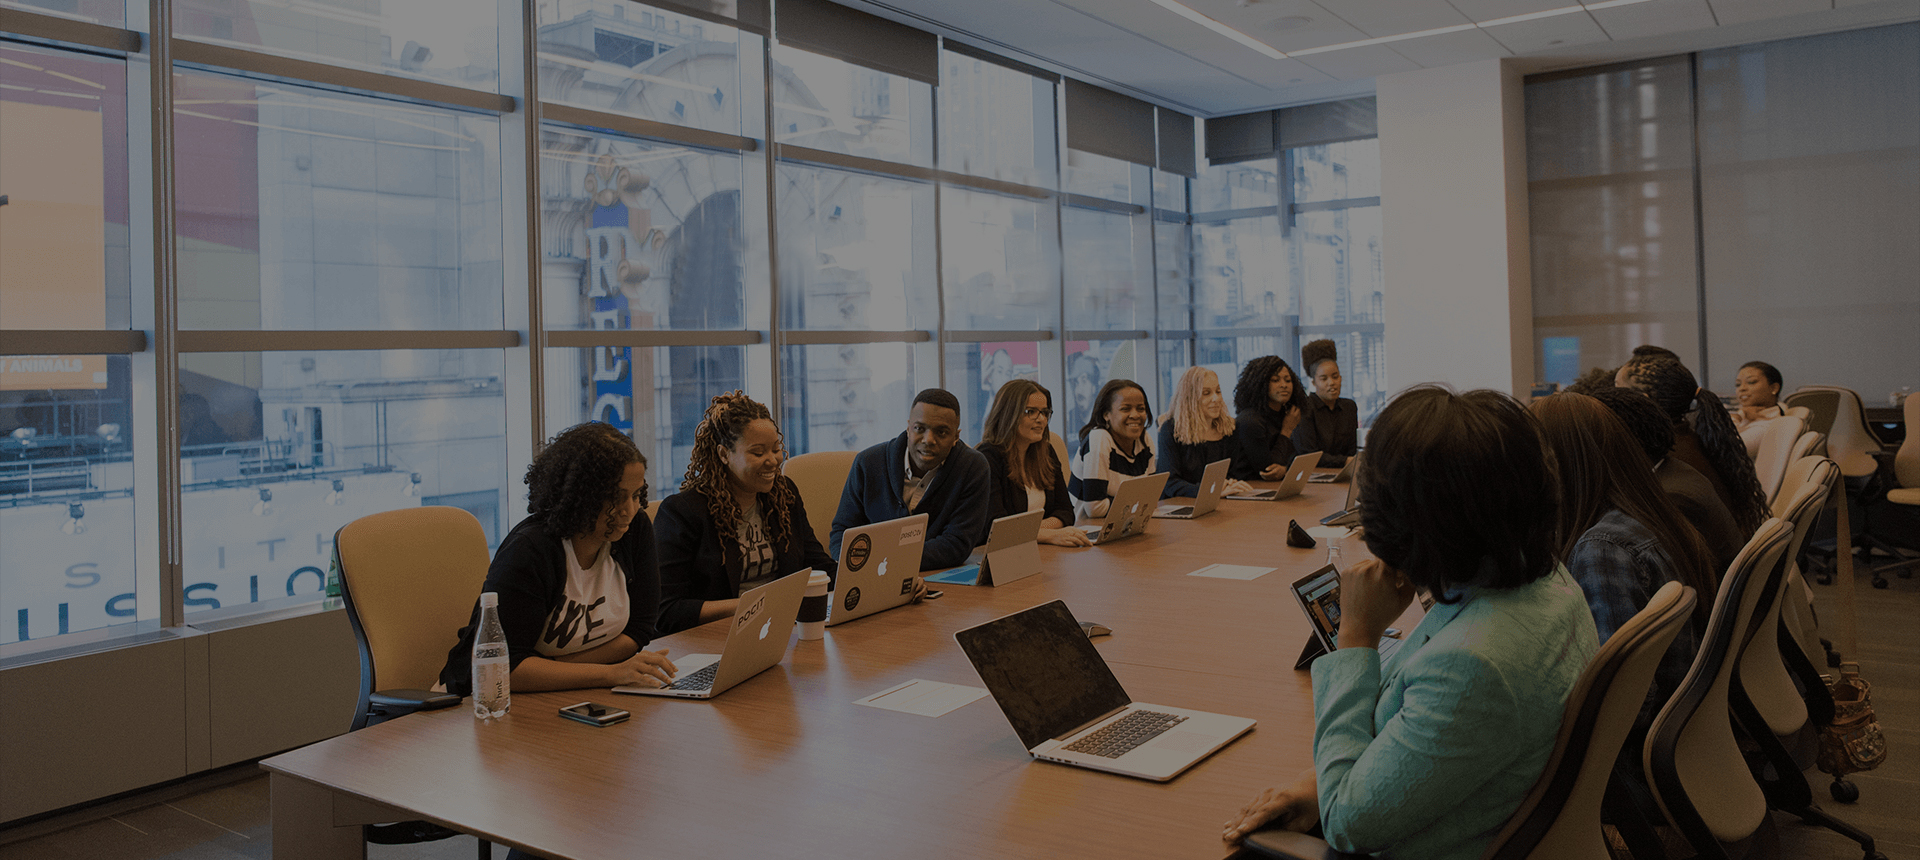
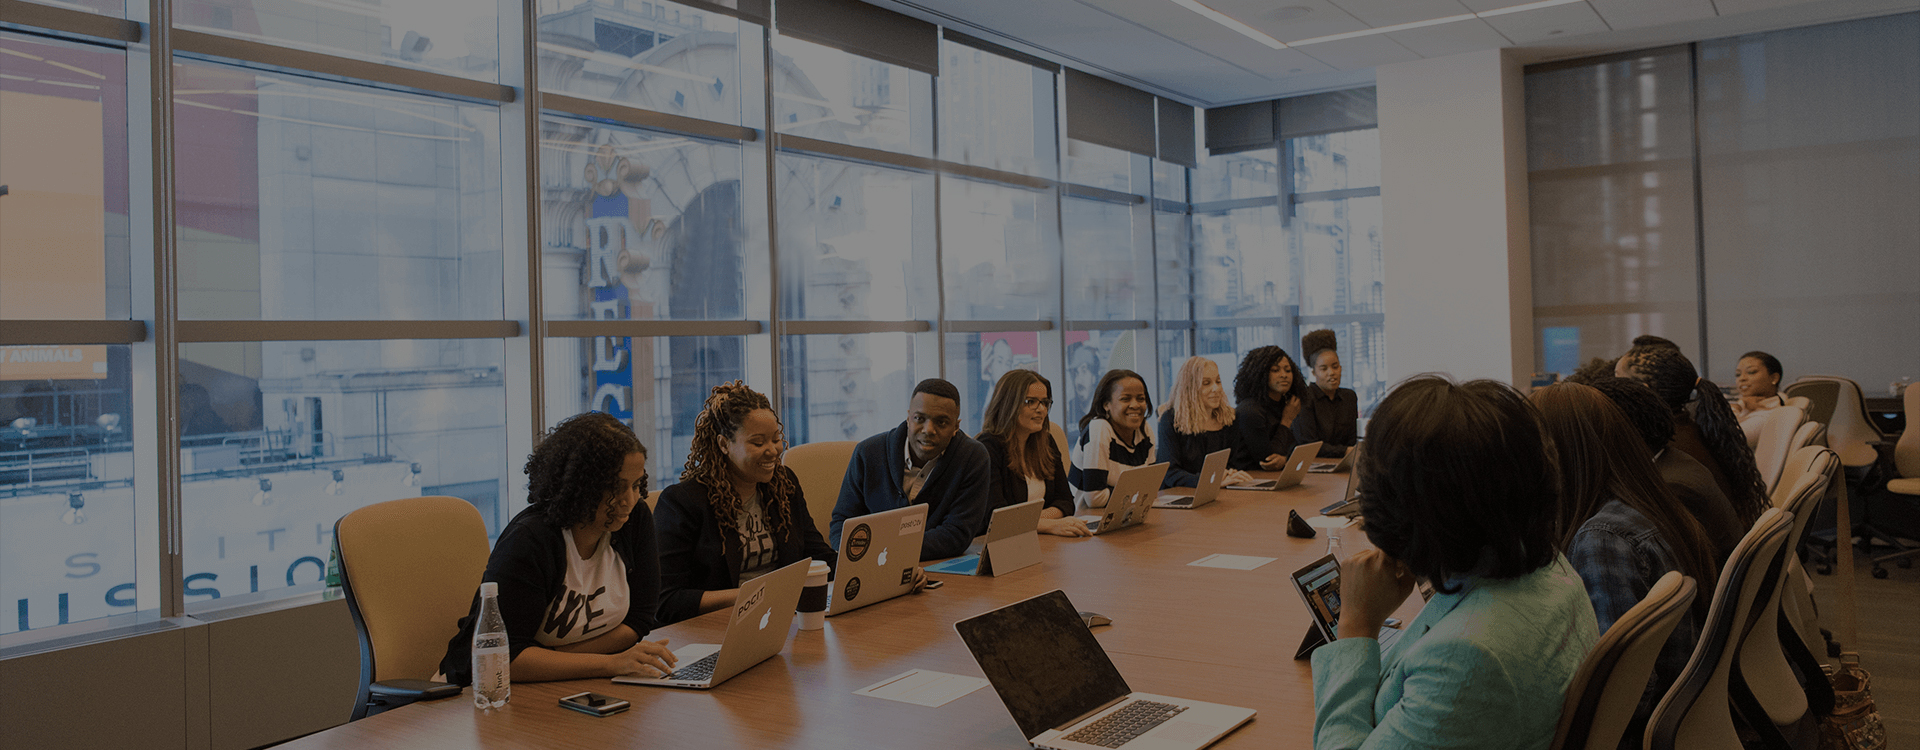
导航调整

diff --git a/html/joinUs.html b/html/joinUs.html
@@ -37,10 +37,12 @@
         <!--header end-->
 
         <div class="index-banner">
-            <div class="index-banner-des">
-                <div class="jumbotron middle ">
-                    <h1>JOIN US.加入我们</h1>
-                    <p>做电商时代的造梦者</p>
+            <div class="container">
+                <div class="index-banner-des">
+                    <div class="jumbotron middle ">
+                        <h1>JOIN US.加入我们</h1>
+                        <p>做电商时代的造梦者</p>
+                    </div>
                 </div>
             </div>
             <img src="./imgs/jonin-banner.jpg" alt="一站式电站解决方案服务商专注、专业、高效">
@@ -105,21 +107,23 @@
 
         <!-- 员工福利 -->
         <div class="index-banner">
-            <div class="index-banner-des">
-                <div class="jumbotron middle welfare">
-                    <h2>员工福利<br> EMPLOYEE WELFARE</h2>
-                    <div class="welfare-detail">
-                        <p>富有竞争力的薪酬：高出同行的薪资待遇</p>
-                        <p>畅通的晋升通道：每年两次晋升调薪的机会</p>
-                        <p>便捷的交通：北京海淀区西三环花园桥地铁口50米</p>
-                        <p>人性化的员工假期：带薪年假、带薪病假、婚假、产假等</p>
-                        <p>丰富的员工福利：月度生日会、部门个性化团建活动、年度体检、年度旅游、节日礼物等</p>
-                        <p>多彩的员工活动：年会、趣味运动会、专项运动</p>
-                        <p>其他福利：每天零食水果下午茶供应、各种口味咖啡，茶等饮品提供</p>
-                    </div>
-                    <div class="contact">
-                        <p>联系电话：010-82484562</p>
-                        <p>投递邮箱：mengqi@v-wom.cn</p>
+            <div class="container">
+                <div class="index-banner-des">
+                    <div class="jumbotron middle welfare">
+                        <h2>员工福利<br> EMPLOYEE WELFARE</h2>
+                        <div class="welfare-detail">
+                            <p>富有竞争力的薪酬：高出同行的薪资待遇</p>
+                            <p>畅通的晋升通道：每年两次晋升调薪的机会</p>
+                            <p>便捷的交通：北京海淀区西三环花园桥地铁口50米</p>
+                            <p>人性化的员工假期：带薪年假、带薪病假、婚假、产假等</p>
+                            <p>丰富的员工福利：月度生日会、部门个性化团建活动、年度体检、年度旅游、节日礼物等</p>
+                            <p>多彩的员工活动：年会、趣味运动会、专项运动</p>
+                            <p>其他福利：每天零食水果下午茶供应、各种口味咖啡，茶等饮品提供</p>
+                        </div>
+                        <div class="contact">
+                            <p>联系电话：010-82484562</p>
+                            <p>投递邮箱：mengqi@v-wom.cn</p>
+                        </div>
                     </div>
                 </div>
             </div>

diff --git a/html/css/all.css b/html/css/all.css
@@ -1,5 +1,6 @@
 .container-main {
   width: 100%;
+  overflow: hidden;
   background: #fff; }
 
 .container {
@@ -17,6 +18,7 @@
 
 .header-content {
   width: 1100px;
+  max-width: 100%;
   height: 100%;
   margin: 0 auto; }
 
@@ -30,7 +32,8 @@
 
 .header-right {
   overflow: hidden;
-  float: right; }
+  float: right;
+  width: 505px; }
 
 .header-right li {
   float: left;
@@ -39,8 +42,7 @@
   margin: 25px 5px 0 5px;
   cursor: pointer;
   height: 30px;
-  line-height: 30px;
-  padding: 0 30px; }
+  line-height: 30px; }
 
 .header-right li:last-child {
   margin-right: 0; }
@@ -50,6 +52,10 @@
   border-radius: 20px;
   /* padding: 0 32px; */
   margin-top: 26px; }
+
+.header-right a {
+  padding: 0 30px;
+  display: inline-block; }
 
 .header-right a,
 .header-right a:hover,
@@ -75,17 +81,21 @@
     max-width: 100%; }
   .index-banner .index-banner-des {
     position: absolute;
+    max-width: 100%;
     height: 100%; }
   .index-banner .jumbotron {
     width: 1100px;
+    overflow: hidden;
+    max-width: 100%;
     position: relative;
+    padding: 0;
     top: 25%;
-    left: 50%;
-    margin: 0 0 0 -275px;
+    left: 0;
     color: #333333;
     text-align: left; }
     .index-banner .jumbotron h1 {
-      font-size: 70px; }
+      font-size: 70px;
+      margin-bottom: 20px; }
     .index-banner .jumbotron p {
       font-size: 36px;
       font-weight: normal; }
@@ -100,6 +110,7 @@
       font-size: 30px; }
 
 .index-corp-desc {
+  max-width: 100%;
   width: 1100px;
   margin: 0 auto;
   color: #333333;
@@ -120,3 +131,6 @@
     margin: 35px 10px 0 0; }
   .footer .container {
     height: 94px !important; }
+
+.serve-detail-content img {
+  max-width: 100%; }

diff --git a/html/scss/all.scss b/html/scss/all.scss
@@ -1,6 +1,7 @@
 @charset "utf-8";
 .container-main{
     width: 100%;
+    overflow: hidden;
     background: #fff;
 }
 .container{
@@ -18,6 +19,7 @@
 }
 .header-content{
     width: 1100px;
+    max-width: 100%;
     height: 100%;
     margin: 0 auto;
 }
@@ -32,6 +34,7 @@
 .header-right{
     overflow: hidden;
     float: right;
+    width: 505px;
 }
 .header-right li{
     float: left;
@@ -41,7 +44,7 @@
     cursor: pointer;
     height: 30px;
     line-height: 30px;
-    padding: 0 30px;
+    
 }
 .header-right li:last-child{
     margin-right: 0;
@@ -51,6 +54,10 @@
     border-radius: 20px;
     /* padding: 0 32px; */
     margin-top: 26px;
+}
+.header-right a{
+    padding: 0 30px;
+    display: inline-block;
 }
 .header-right a,
 .header-right a:hover,
@@ -78,18 +85,22 @@
     }
     .index-banner-des{
         position: absolute;
+        max-width: 100%;
         height: 100%;
     }
     .jumbotron{
         width: 1100px;
+        overflow: hidden;
+        max-width: 100%;
         position:relative;
+        padding: 0;
         top:25%;
-        left:50%;
-        margin: 0 0 0 -275px;
+        left:0;
         color: #333333;
         text-align: left;
         h1{
             font-size: 70px;
+            margin-bottom: 20px;
         }
         p{
             font-size: 36px;
@@ -119,6 +130,7 @@
 }
 
 .index-corp-desc{
+    max-width: 100%;
     width: 1100px;
     margin: 0 auto;
     color: #333333;
@@ -146,4 +158,11 @@
         height: 94px!important;
     }
     
+}
+
+// 核心服务
+.serve-detail-content{
+    img{
+        max-width: 100%;
+    }
 }

diff --git a/html/serve.html b/html/serve.html
@@ -37,11 +37,13 @@
         <!--header end-->
 
         <div class="index-banner">
-            <div class="index-banner-des">
-                <div class="jumbotron middle ">
-                    <h1>SERVICE.电商服务</h1>
-                    <p>玩转电商</p>
-                    <p>系统化解决电商难题</p>
+            <div class="container">
+                <div class="index-banner-des">
+                    <div class="jumbotron middle ">
+                        <h1>SERVICE.电商服务</h1>
+                        <p>玩转电商</p>
+                        <p>系统化解决电商难题</p>
+                    </div>
                 </div>
             </div>
             <img src="./imgs/server-banner.jpg" alt="一站式电站解决方案服务商专注、专业、高效">
@@ -60,10 +62,12 @@
         </div>
 
         <div class="index-banner">
-            <div class="index-banner-des">
-                <div class="jumbotron middle banner-footer">
-                    <p>知名品牌电子商务商业伙伴</p>
-                    <p>和技术研发解决方案公司</p>
+            <div class="container">
+                <div class="index-banner-des">
+                    <div class="jumbotron middle banner-footer">
+                        <p>知名品牌电子商务商业伙伴</p>
+                        <p>和技术研发解决方案公司</p>
+                    </div>
                 </div>
             </div>
             <img src="./imgs/server-footer.jpg" alt="一站式电站解决方案服务商专注、专业、高效">

diff --git a/html/aboutus.html b/html/aboutus.html
@@ -35,11 +35,12 @@
     <!--header end-->
 
     <div class="index-banner">
-        <div class="index-banner-des about-banner">
-            <div class="jumbotron middle">
-                <h1>RUNZE.润泽金诚</h1>
-                <p>一站式电站解决方案服务商</p>
-                <p>专注、专业、高效</p>
+        <div class="container">
+            <div class="index-banner-des about-banner">
+                <div class="jumbotron middle">
+                    <h1>ABOUT US.关于我们</h1>
+                    <p>全球知名品牌业务合作伙伴</p>
+                </div>
             </div>
         </div>
         <img src="./imgs/about-banner.jpg" alt="">
@@ -90,11 +91,13 @@
     <div class="clear-both"></div>
 
     <div class="index-banner">
-        <div class="index-banner-des about-footer">
-            <div class="jumbotron middle ">
-                <h1>RUNZE.润泽金诚</h1>
-                <p>一站式电站解决方案服务商</p>
-                <p>专注、专业、高效</p>
+        <div class="container">
+            <div class="index-banner-des about-footer">
+                <div class="jumbotron middle ">
+                    <h1>商务合作</h1>
+                    <p>联系电话：010-82484562</p>
+                    <p>公司地址：北京市海淀区西三环北路91号7号楼三层C23室</p>
+                </div>
             </div>
         </div>
         <img src="./imgs/about-footer.jpg" alt="一站式电站解决方案服务商专注、专业、高效">

diff --git a/html/index.html b/html/index.html
@@ -34,11 +34,13 @@
     <!--header end-->
 
     <div class="index-banner">
-        <div class="index-banner-des">
-            <div class="jumbotron middle ">
-                <h1>商务合作</h1>
-                <p>联系电话：010-82484562</p>
-                <p>公司地址：北京市海淀区西三环北路91号7号楼三层C23室</p>
+        <div class="container">
+            <div class="index-banner-des">
+                <div class="jumbotron middle ">
+                    <h1>RUNZE.润泽金诚</h1>
+                    <p>一站式电站解决方案服务商</p>
+                    <p>专注、专业、高效</p>
+                </div>
             </div>
         </div>
         <img src="./imgs/index-banner.jpg" alt="一站式电站解决方案服务商专注、专业、高效">
